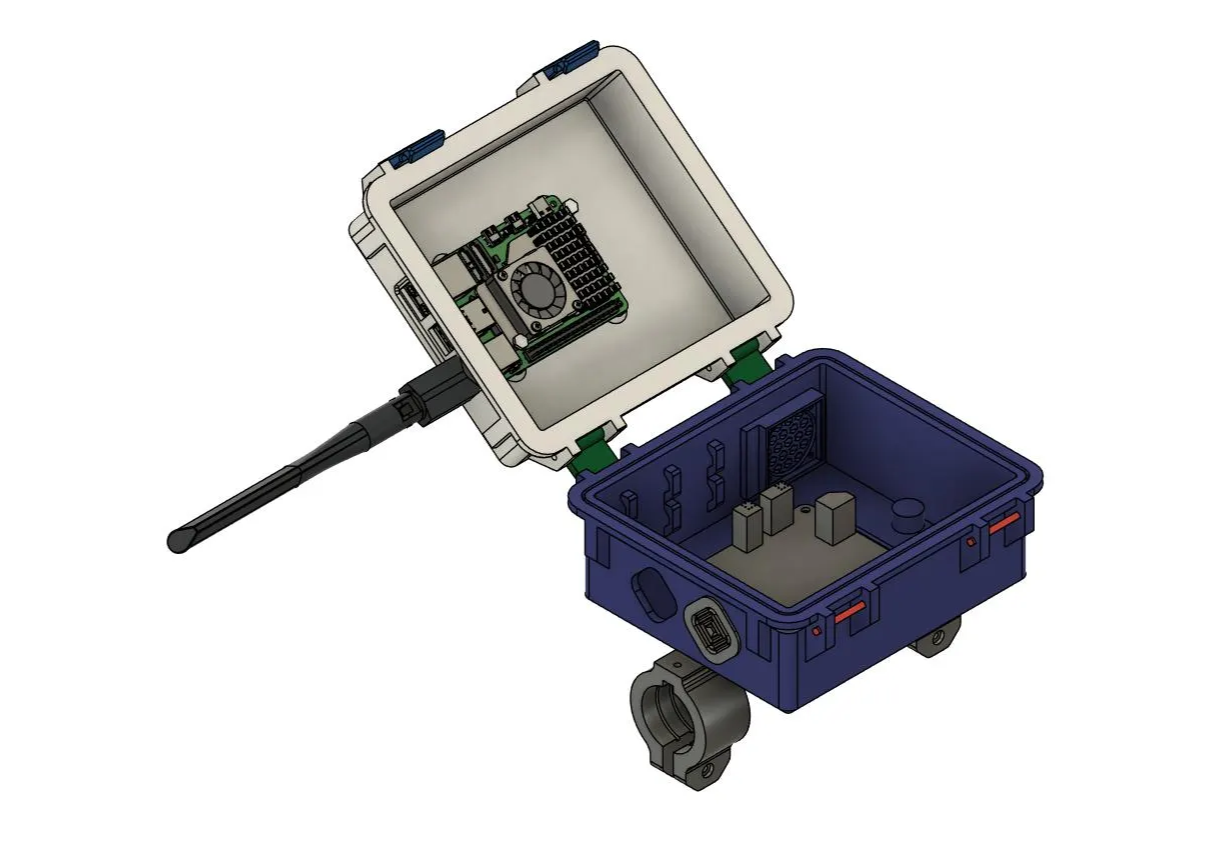
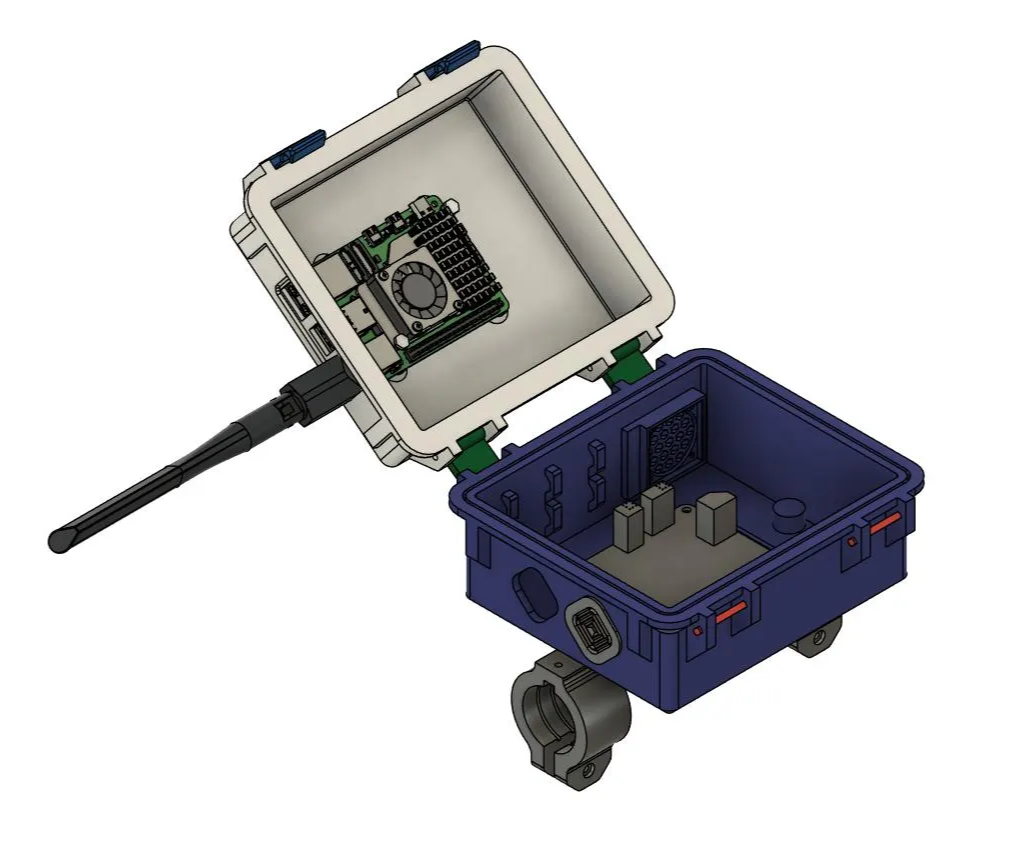
hardware assembly image display fix

Changed region(s): [[0.0306, 0.0302, 0.9172, 0.9372]]

diff --git a/setup/hardware.md b/setup/hardware.md
@@ -12,12 +12,12 @@ title: Hardware Assembly
 * TOC
 {:toc}
 
-<div style="display: flex; gap: 1rem; flex-wrap: wrap;">
+<div style="display: grid; grid-template-columns: 1fr 1fr; gap: 1rem; flex-wrap: wrap;">
 
-  <img src="../assets/images/0B_Parametric_Box_AxialFan_AirFlowVent_v29.png" style="width: 23%;" />
-  <img src="../assets/images/0B_Parametric_Box_AxialFan_AirFlowVent_v29Inside.jpg" style="width: 23%;" />
-  <img src="../assets/images/0B_Parametric_Box_AxialFan_AirFlowVent_v29open.jpg" style="width: 23%;" />
-  <img src="../assets/images/0B_Parametric_Box_AxialFan_AirFlowVent_v29_2.jpg" style="width: 23%;" />
+  <img src="../assets/images/0B_Parametric_Box_AxialFan_AirFlowVent_v29.png"/>
+  <img src="../assets/images/0B_Parametric_Box_AxialFan_AirFlowVent_v29Inside.jpg"/>
+  <img src="../assets/images/0B_Parametric_Box_AxialFan_AirFlowVent_v29open.jpg"/>
+  <img src="../assets/images/0B_Parametric_Box_AxialFan_AirFlowVent_v29_2.jpg"/>
 
 </div>
 